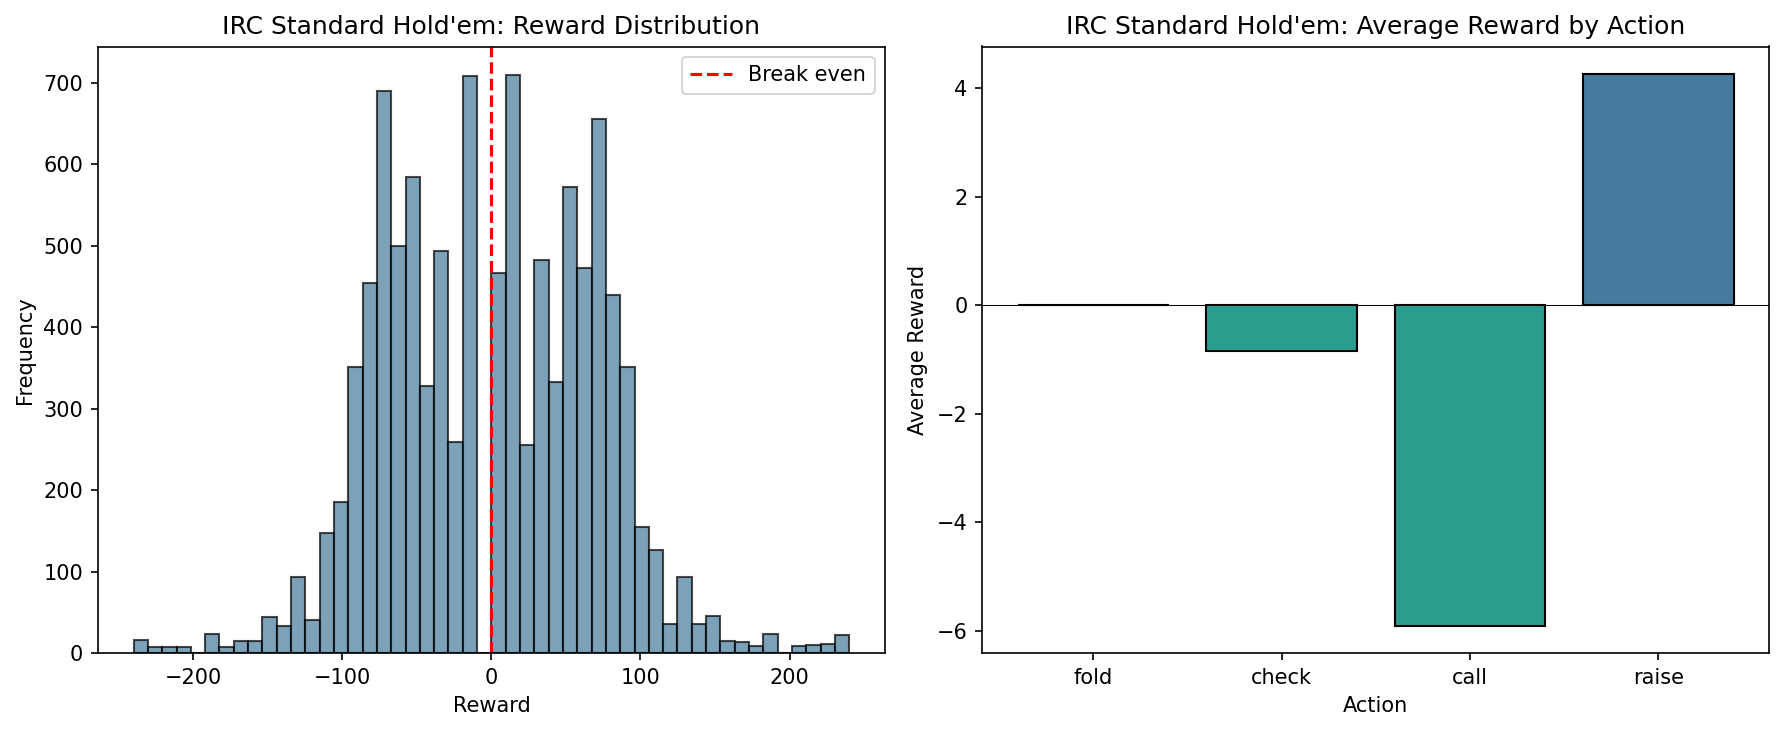
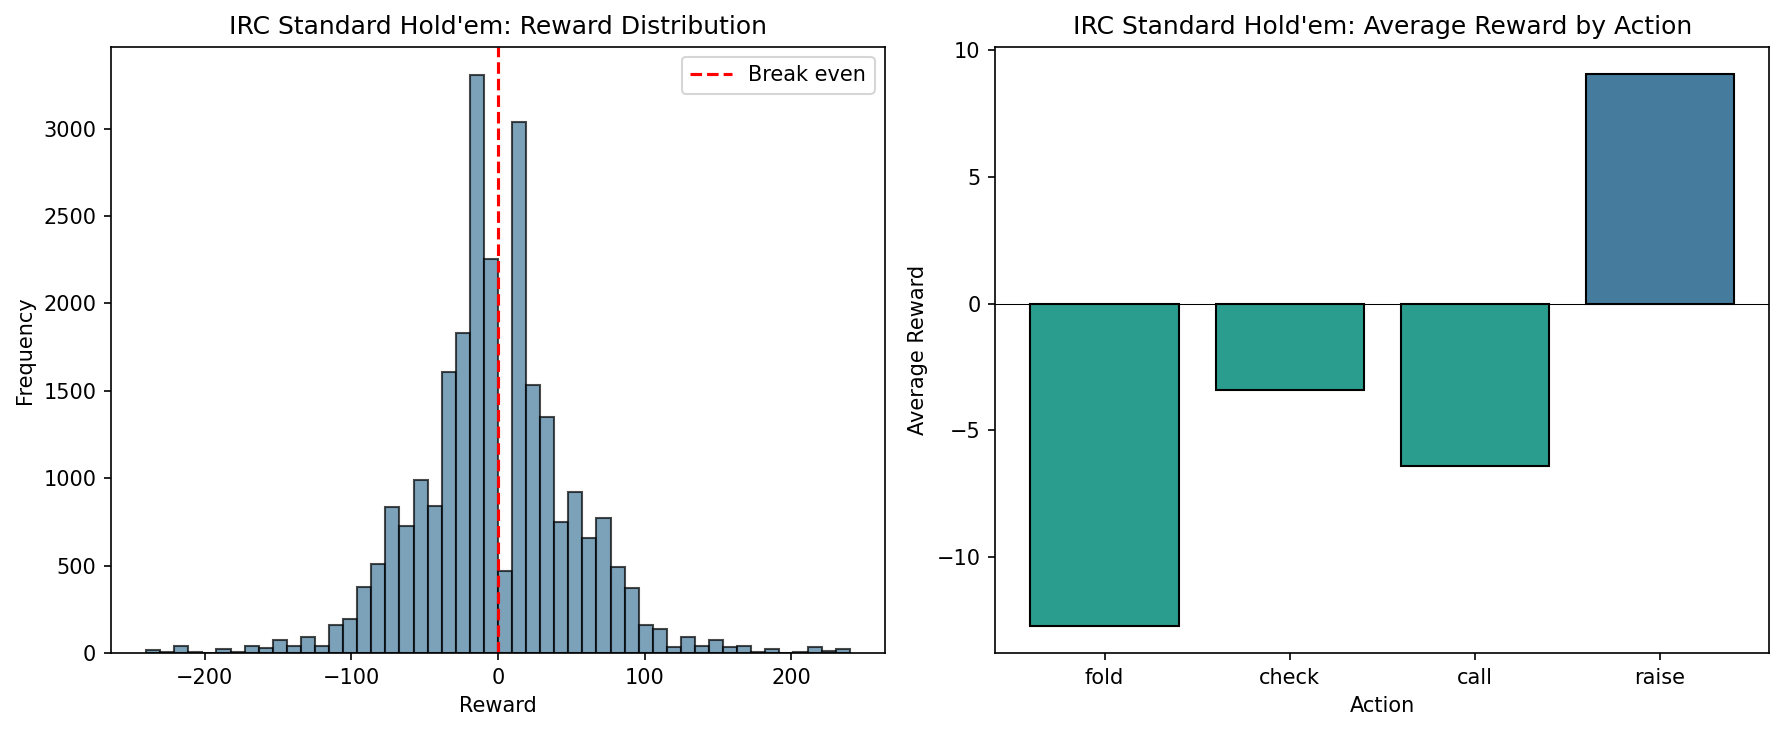
Changed graphing file for training data to work on mixed irc and synthetic

diff --git a/analyze_training_data.py b/analyze_training_data.py
@@ -48,6 +48,10 @@ DATASET_PROFILES = {
         "colors": ["#e76f51", "#f4a261", "#e9c46a", "#d62828"],
     },
 }
+MIXED_DATASET_PROFILE = {
+    "title": "Mixed Hold'em Dataset",
+    "colors": ["#6d597a", "#b56576", "#e56b6f", "#eaac8b"],
+}
 
 
 try:
@@ -116,12 +120,24 @@ def _sanitize_slug(value: str) -> str:
 
 def _detect_dataset_profile(filepath: str, data: List[Dict[str, Any]]) -> Dict[str, Any]:
     variant_counts = Counter(example.get("variant_tag", "unknown") for example in data)
-    variant_tag = variant_counts.most_common(1)[0][0] if variant_counts else "unknown"
+    variant_tags = list(variant_counts.keys())
+    stem = os.path.splitext(os.path.basename(filepath))[0]
 
-    if variant_tag in DATASET_PROFILES:
+    if len(variant_tags) > 1:
+        profile = {
+            "slug": _sanitize_slug(stem),
+            "title": MIXED_DATASET_PROFILE["title"],
+            "colors": list(MIXED_DATASET_PROFILE["colors"]),
+        }
+        variant_tag = "mixed"
+    else:
+        variant_tag = variant_counts.most_common(1)[0][0] if variant_counts else "unknown"
+
+    if len(variant_tags) > 1:
+        pass
+    elif variant_tag in DATASET_PROFILES:
         profile = dict(DATASET_PROFILES[variant_tag])
     else:
-        stem = os.path.splitext(os.path.basename(filepath))[0]
         profile = {
             "slug": _sanitize_slug(variant_tag if variant_tag != "unknown" else stem),
             "title": stem.replace("_", " ").title(),
@@ -129,7 +145,8 @@ def _detect_dataset_profile(filepath: str, data: List[Dict[str, Any]]) -> Dict[s
         }
 
     profile["variant_tag"] = variant_tag
-    profile["source_stem"] = os.path.splitext(os.path.basename(filepath))[0]
+    profile["variant_counts"] = dict(variant_counts)
+    profile["source_stem"] = stem
     profile["graphs_dir"] = os.path.join(GRAPHS_DIR, profile["slug"])
     return profile
 
@@ -809,6 +826,10 @@ def main(filepath: str):
 
     os.makedirs(graphs_dir, exist_ok=True)
     print(f"Detected dataset: {dataset_profile['title']} ({dataset_profile['variant_tag']})")
+    if dataset_profile["variant_tag"] == "mixed":
+        print("Mixed sources:")
+        for variant_tag, count in sorted(dataset_profile["variant_counts"].items()):
+            print(f"  {variant_tag}: {count}")
 
     print_summary_stats(data)
     analyze_agent_tendencies(data)